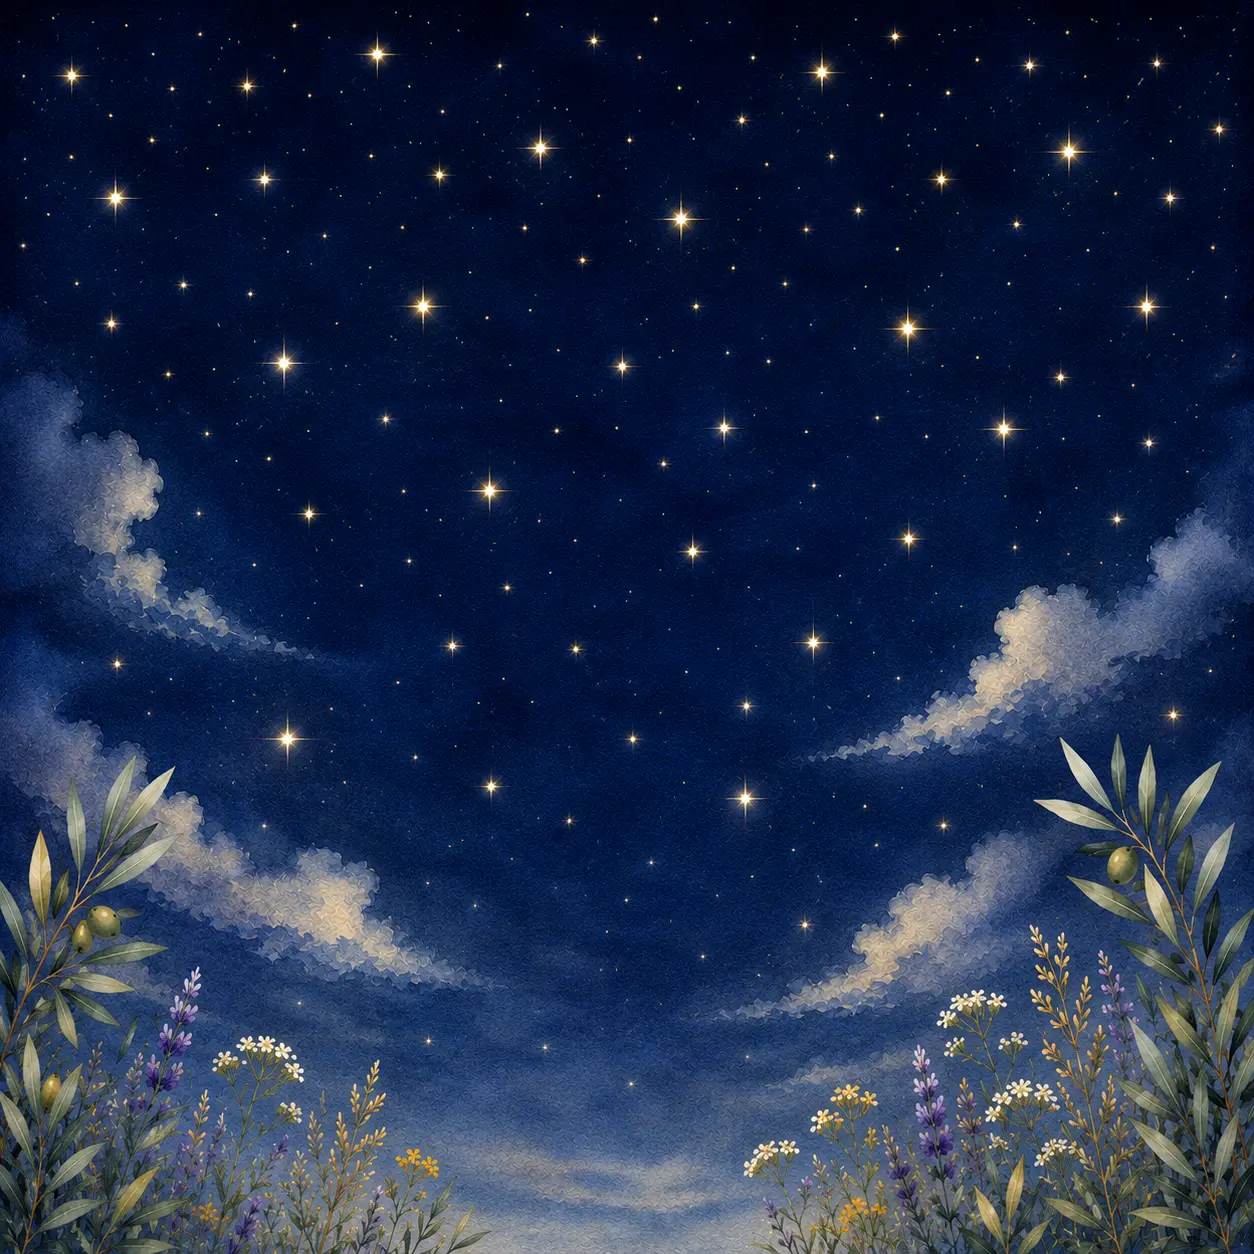
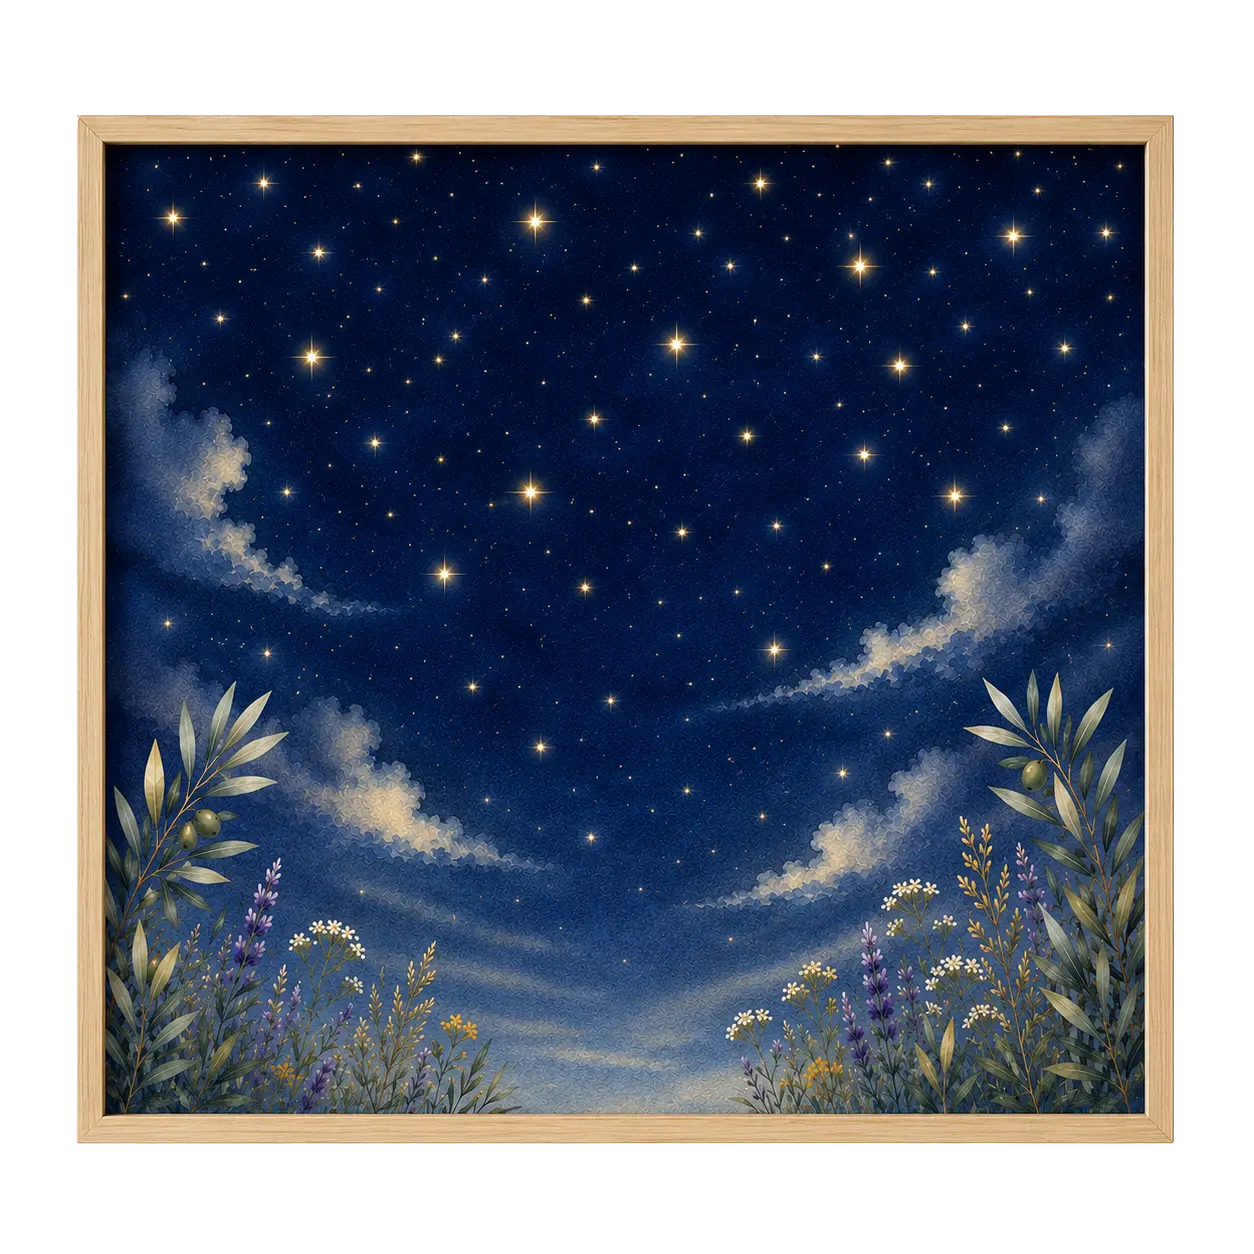
Add navigation menu to landing page

diff --git a/components/experience/scenes/StarsIntroScene.tsx b/components/experience/scenes/StarsIntroScene.tsx
@@ -57,7 +57,7 @@ export function StarsIntroScene({ onContinue }: StarsIntroSceneProps) {
             key={idea.title}
             className="rounded-[1.5rem] border border-[#DCCDB8] bg-[#FFF9EF]/70 px-4 py-5 text-right shadow-sm"
           >
-            <div className="mb-4 flex flex-row-reverse items-center justify-between gap-4">
+            <div className="mb-4 flex items-center justify-between gap-4">
               <h3 className="text-lg font-light text-[#3F3428]">
                 {idea.title}
               </h3>
